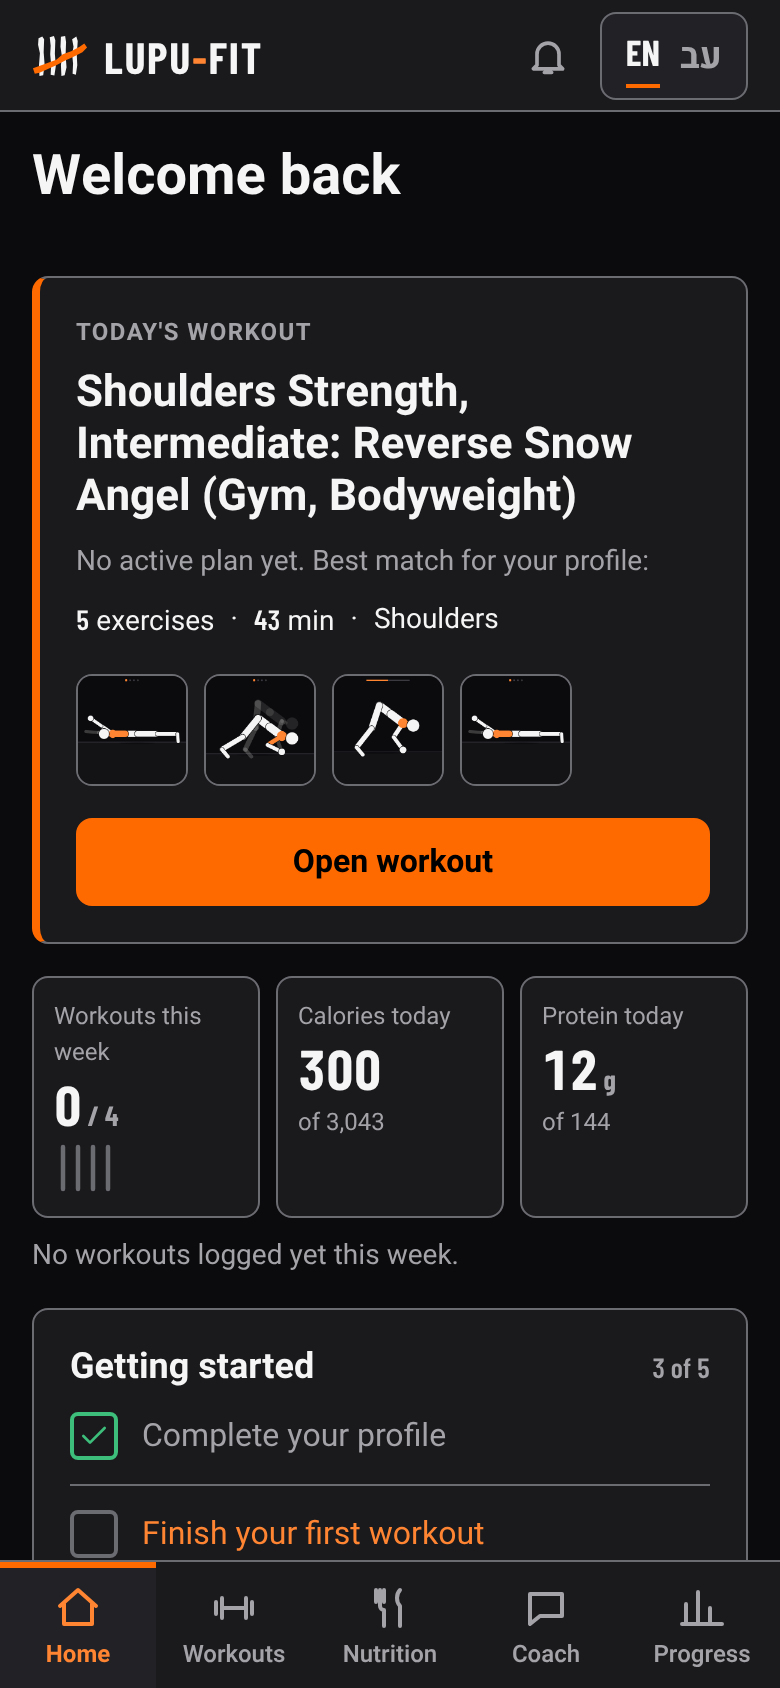
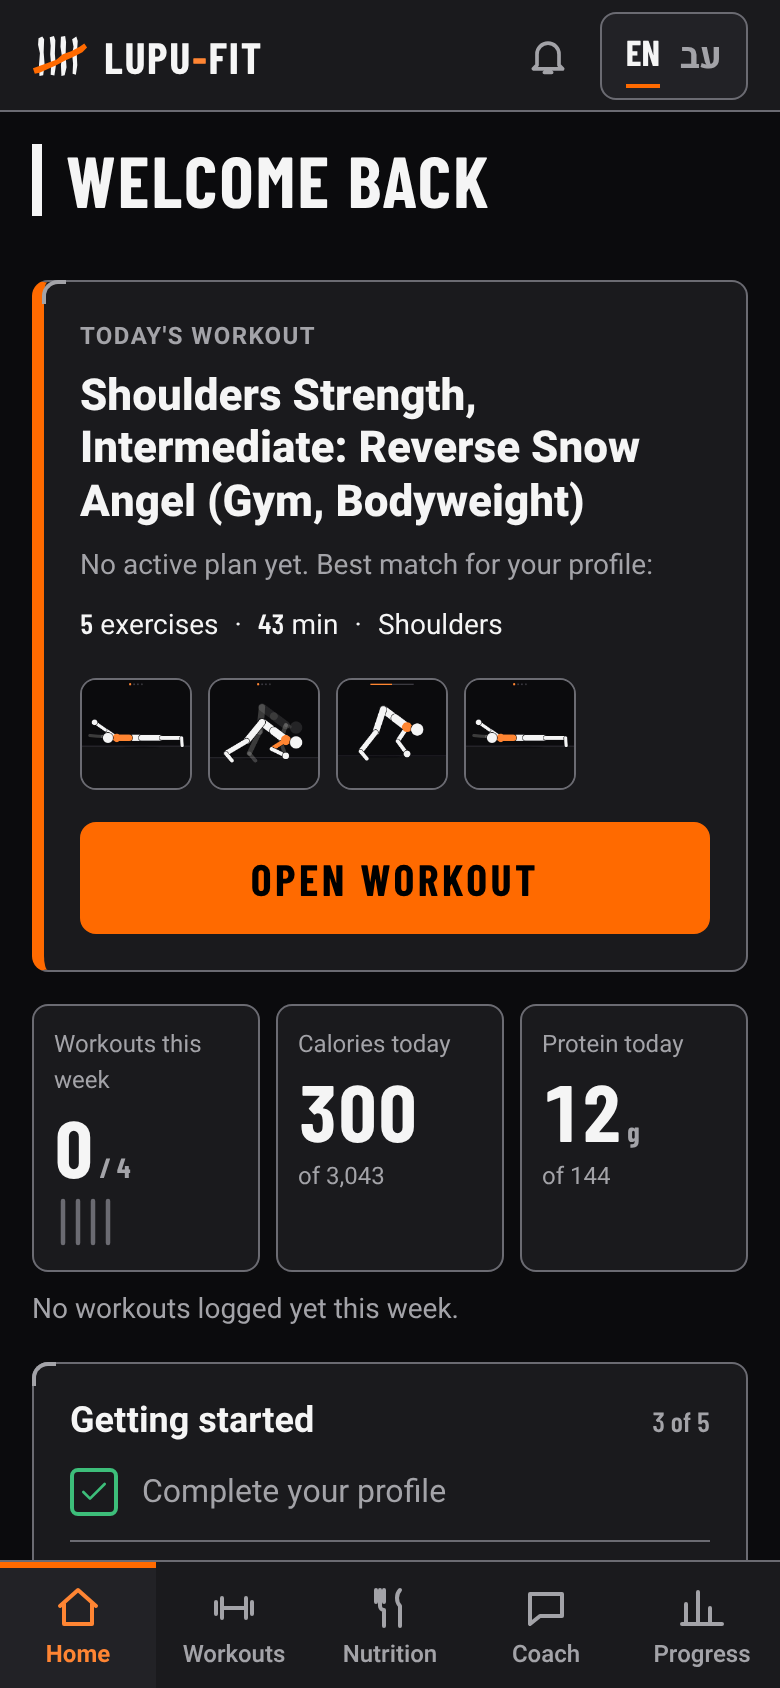
Visual polish layer: heavier titles, corner notches, scoreboard numerals, motion
Claude-Session: https://claude.ai/code/session_01RM7ax6VEzowoixLMdCQ88d

diff --git a/lupu-fit/client/src/styles/polish.css b/lupu-fit/client/src/styles/polish.css
@@ -1,0 +1,32 @@
+/* Visual polish layer: sharper industrial character, still inside the design rules (no gradients/glows/pills, tokens only). */
+
+/* Page titles: heavier, with a solid marker tick (the tally-stroke motif). */
+.main > h1, .page-head h1 { font-size: var(--fs-28); font-weight: 800; line-height: 1.1; padding-inline-start: 0.75rem; border-inline-start: 5px solid var(--text); }
+:lang(en) .main > h1, :lang(en) .page-head h1 { font-family: var(--font-num); font-size: 2.25rem; text-transform: uppercase; letter-spacing: 0.03em; line-height: 1; }
+:lang(en) .card > h2, :lang(en) .card > h3:first-child { font-family: var(--font-num); text-transform: uppercase; letter-spacing: 0.04em; font-size: var(--fs-22); }
+
+/* Cards: registration-mark corner notch, like stamped steel. */
+.card, .hero-card { position: relative; }
+.card::before { content: ''; position: absolute; inset-block-start: -1px; inset-inline-start: -1px; inline-size: 0.75rem; block-size: 0.75rem; border-block-start: 2px solid var(--text-muted); border-inline-start: 2px solid var(--text-muted); border-start-start-radius: var(--radius); pointer-events: none; }
+.card-flat::before, .stat-tile::before, .list-link::before { content: none; }
+
+/* Big numerals: scoreboard feel. */
+.stat-tile .num-lg, .stat-tile .num-hero { font-size: 2.5rem; font-weight: 800; }
+.stat-tile { border-block-start: 3px solid var(--border); }
+.hero-card { border-inline-start-width: 6px; }
+.hero-card h2 { font-size: var(--fs-22); font-weight: 800; }
+
+/* Buttons: heavier and more tactile; English labels in condensed caps. */
+.btn { min-block-size: 3rem; font-weight: 700; }
+.btn-primary { min-block-size: 3.5rem; font-size: var(--fs-18); font-weight: 800; }
+:lang(en) .btn-primary { font-family: var(--font-num); text-transform: uppercase; letter-spacing: 0.08em; font-size: var(--fs-22); }
+.btn:active { transform: translateY(1px) scale(0.985); }
+
+/* Motion: content rises in, staggered. Disabled for reduced motion. */
+@keyframes pol-rise { from { opacity: 0; transform: translateY(10px); } }
+.main > * { animation: pol-rise 220ms ease-out both; }
+.main > *:nth-child(2) { animation-delay: 40ms; } .main > *:nth-child(3) { animation-delay: 80ms; }
+.main > *:nth-child(4) { animation-delay: 120ms; } .main > *:nth-child(5) { animation-delay: 160ms; }
+.main > *:nth-child(n+6) { animation-delay: 200ms; }
+.bar > i { transition: inline-size 600ms cubic-bezier(0.2, 0.8, 0.2, 1); }
+@media (prefers-reduced-motion: reduce) { .main > * { animation: none; } .btn:active { transform: none; } }

diff --git a/lupu-fit/client/src/main.tsx b/lupu-fit/client/src/main.tsx
@@ -7,6 +7,7 @@ import { LangProvider, useT } from './i18n/index.tsx';
 import { applyTheme, getTheme } from './lib/theme.ts';
 import './styles/tokens.css';
 import './styles/base.css';
+import './styles/polish.css';
 
 applyTheme(getTheme());
 const root = createRoot(document.getElementById('root') as HTMLElement);
